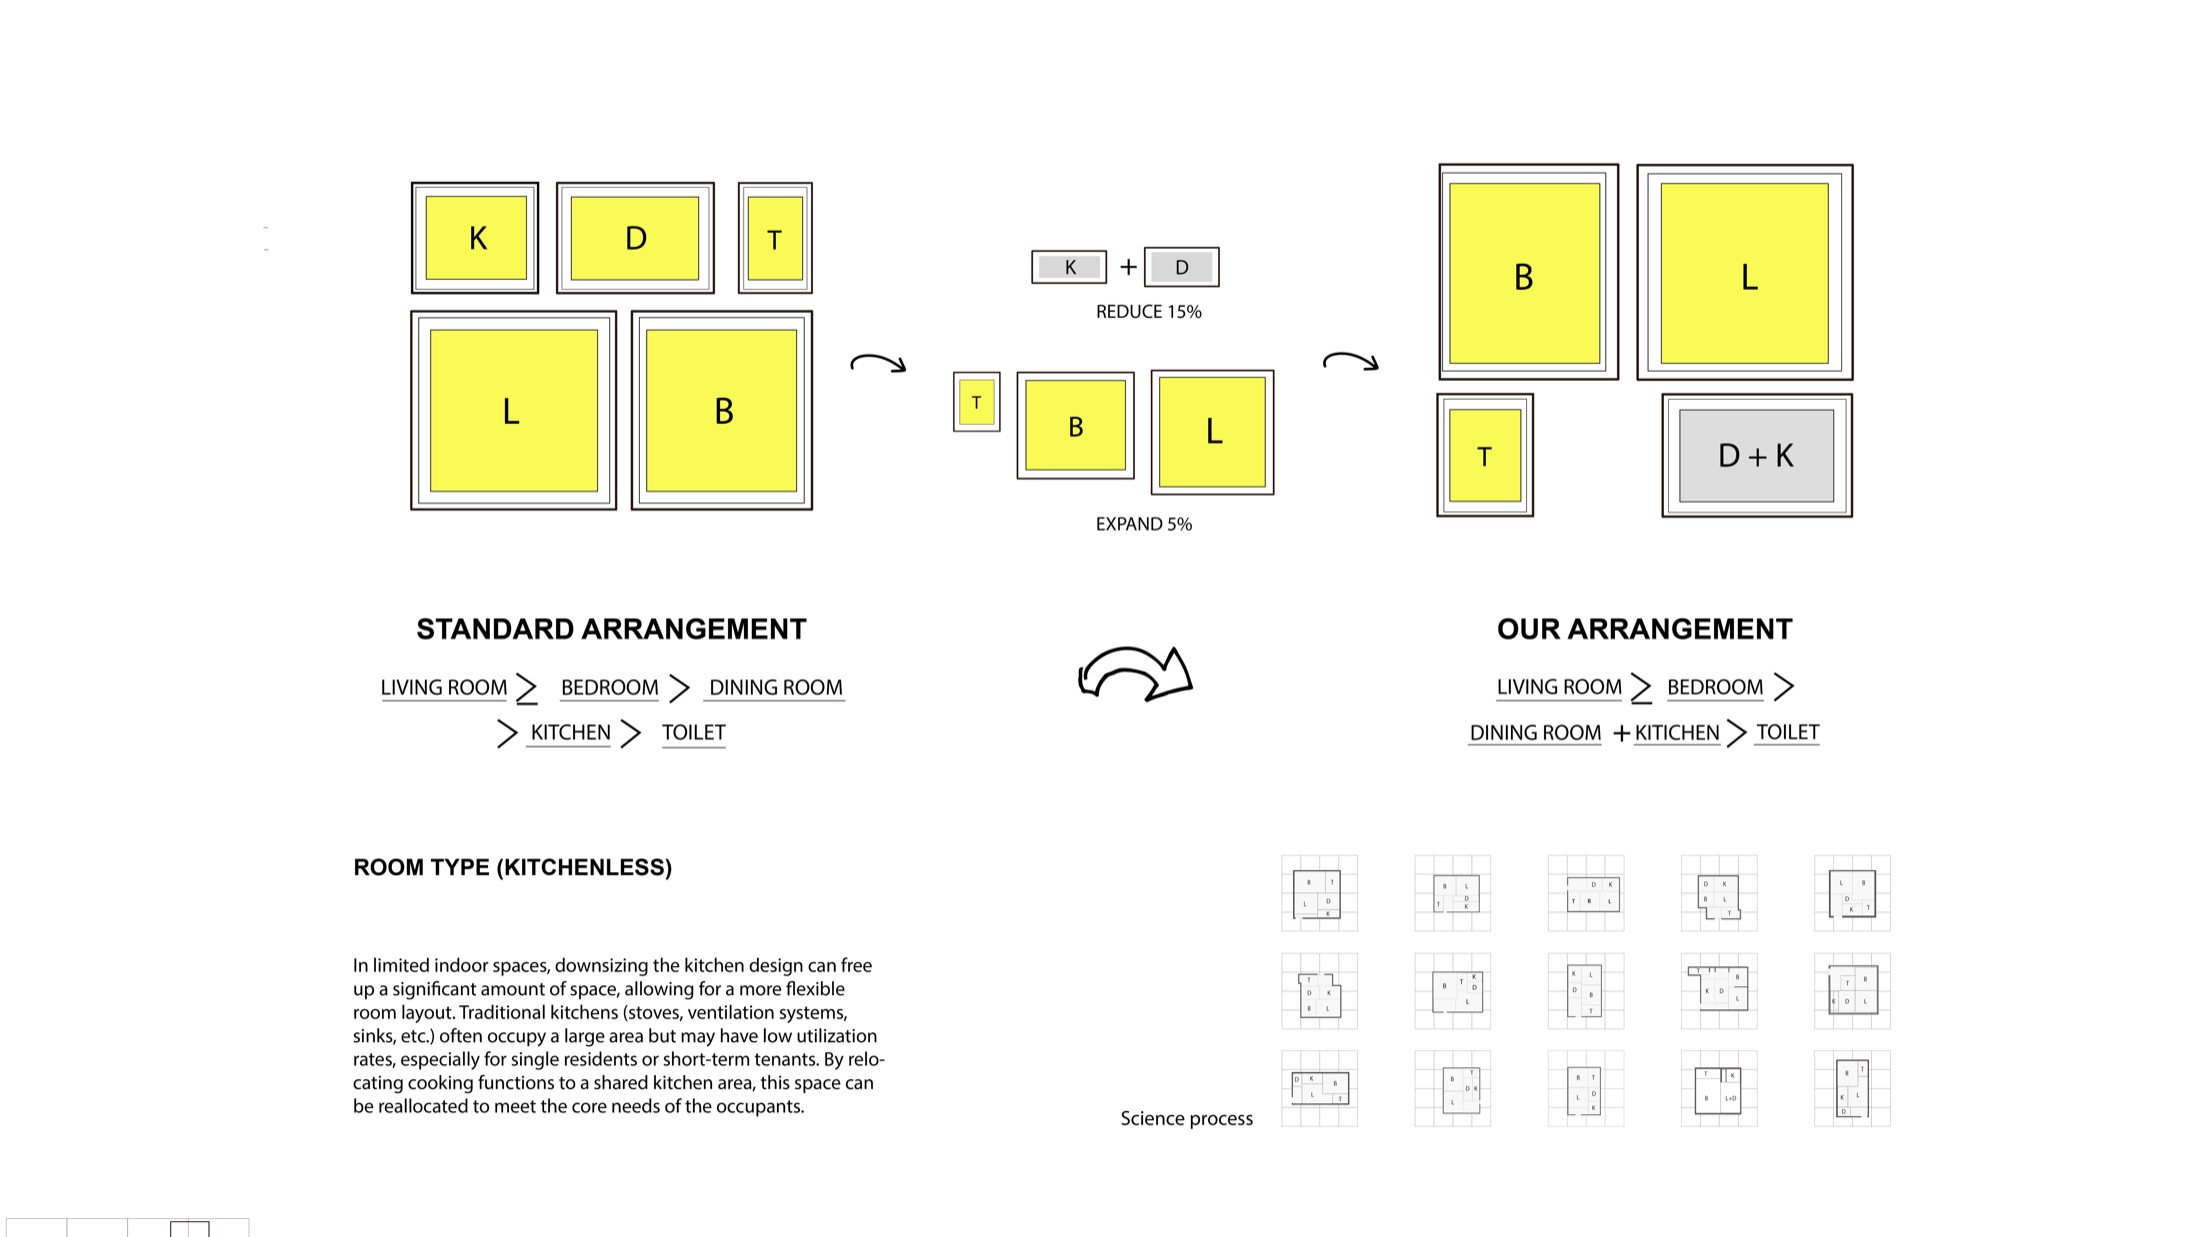
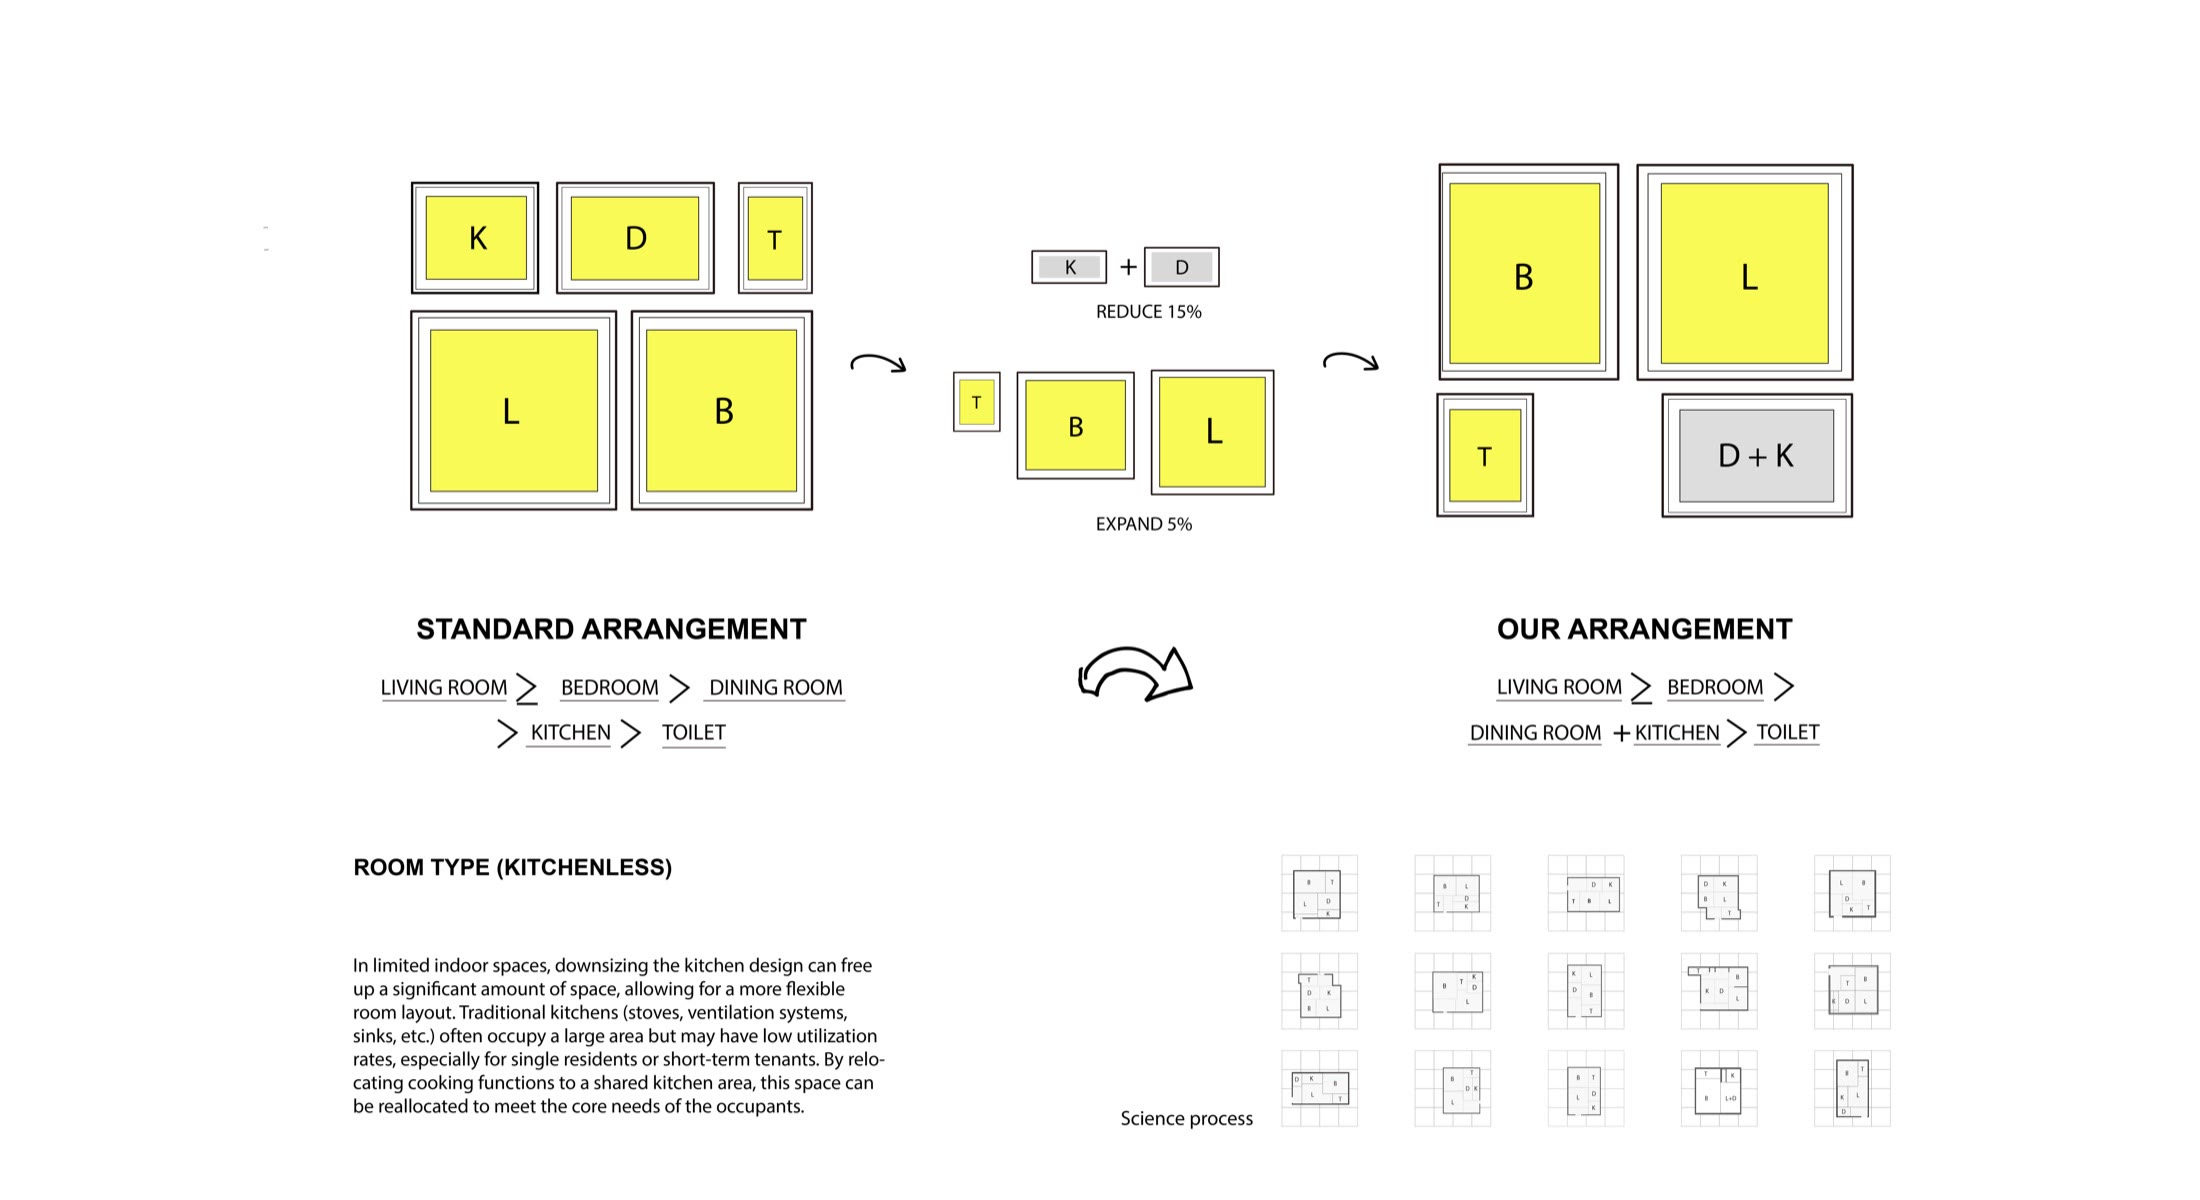
save

diff --git a/scripts/mineport.js b/scripts/mineport.js
@@ -122,6 +122,10 @@ document.addEventListener("DOMContentLoaded", function () {
             return "";
         }
 
+        if (detail.fullDescription) {
+            return detail.fullDescription;
+        }
+
         return detail.title + " is developed as a long-form " + detail.category.toLowerCase() + " proposal rooted in atmosphere, spatial sequence, and material restraint. Set in " + detail.location + ", the work begins with a close reading of movement, pause, and the emotional rhythm produced between enclosure and openness. Rather than treating form as a singular object, the project is organized as a series of linked moments, where threshold, proportion, light, and visual compression gradually shape the experience of the whole. The intention is to create a setting that feels measured and quiet, but still carries strong emotional depth through contrast, texture, and pacing. " +
             "Across the proposal, surfaces are edited carefully so that each junction, opening, and transition contributes to a more continuous architectural narrative. Light is not only used to illuminate the space, but also to structure attention, soften boundaries, and clarify the hierarchy between public and intimate zones. Material choices are imagined as part of the same composition, allowing weight, reflection, shadow, and tactile presence to work together instead of competing for emphasis. " +
             "The result is a project that values calm over spectacle and precision over excess. It aims to feel immersive without becoming heavy, and expressive without losing discipline. In this way, " + detail.title + " becomes less a static formal statement and more a carefully paced environment, where each movement reveals another layer of spatial character, visual stillness, and lived atmosphere over time.";
@@ -261,7 +265,7 @@ document.addEventListener("DOMContentLoaded", function () {
         setButtonText(projectDetailGalleryToggle, isGalleryMode ? "Detail" : "Gallery", ".project-detail-badge-text", "project-detail-badge-text");
 
         if (isGalleryMode) {
-            renderProjectGalleryMode();
+            scheduleProjectGalleryModeRender();
         }
     }
 
@@ -283,6 +287,20 @@ document.addEventListener("DOMContentLoaded", function () {
         if (projectDetailStageTrack) {
             projectDetailStageTrack.querySelectorAll(".project-detail-gallery-stage-image").forEach(applyProjectGalleryStageImageRatio);
         }
+    }
+
+    function scheduleProjectGalleryModeRender() {
+        renderProjectGalleryMode();
+
+        window.requestAnimationFrame(function () {
+            renderProjectGalleryMode();
+
+            window.requestAnimationFrame(function () {
+                renderProjectGalleryMode();
+            });
+        });
+
+        window.setTimeout(renderProjectGalleryMode, 360);
     }
 
     function blockProjectDetailImageNavigation(event) {

diff --git a/scripts/mineport-project-data.js b/scripts/mineport-project-data.js
@@ -1,4 +1,4 @@
-function createProjectDetail(title, location, typology, category, year, description, image, images, galleryImages) {
+function createProjectDetail(title, location, typology, category, year, description, image, images, galleryImages, fullDescription) {
     return {
         title: title,
         location: location,
@@ -7,7 +7,8 @@ function createProjectDetail(title, location, typology, category, year, descript
         year: year,
         description: description,
         images: images || Array(10).fill(image),
-        galleryImages: galleryImages || images || Array(10).fill(image)
+        galleryImages: galleryImages || images || Array(10).fill(image),
+        fullDescription: fullDescription || ""
     };
 }
 
@@ -18,9 +19,11 @@ window.MINEPORT_PROJECT_DETAIL_DATA = [
     createProjectDetail("Stone Horizon House", "Los Angeles, USA", "Residential", "Architecture", "2024 Spring", ["A residential concept framed by long horizons, low silhouettes, and a measured relationship between land and enclosure.", "The project explores how stillness can be expressed through geometry, light, and carefully edited material transitions."], "../assets/images/projects/project4/card/project4.jpg"),
     createProjectDetail("Stone Horizon House", "Los Angeles, USA", "Culture", "Architecture", "2023 Winter", ["An interior-forward reading of the project that focuses on tactile surfaces, tone, and a disciplined editing of detail.", "Furniture, openings, and circulation are treated as part of one continuous visual composition."], "../assets/images/projects/project5/card/project5.jpg"),
     createProjectDetail("Stone Horizon House", "Los Angeles, USA", "Education", "Architecture", "2025 Summer", ["This version extends the project into a more image-driven exploration of atmosphere and narrative framing.", "The result is less about object and more about mood, pacing, and emotional resonance."], "../assets/images/projects/project6/card/project6.jpg"),
-    createProjectDetail("Stone Horizon House", "Los Angeles, USA", "Residential", "Architecture", "2024 Winter", ["A study in structural calm and horizontal emphasis, using massing to build quiet tension against the landscape.", "Its design language moves between solidity and openness without becoming heavy."], "../assets/images/projects/project7/card/project7.jpg", null, Array.from({ length: 20 }, function (_, imageIndex) {
-        return "../assets/images/projects/project7/gallery/" + (imageIndex + 1) + ".jpg?v=2";
-    })),
+    createProjectDetail("Kitchenless", "Taoyuan,Taiwan", "Residential", "Architecture", "2024 Winter", ["This kitchenless social housing concept optimizes space and cost while encouraging community through shared kitchens.", "It responds to food delivery, meal services, and sustainability trends with a more affordable, resource-efficient model for urban living."], "../assets/images/projects/project7/card/project7.jpg", [1, 6, 7, 9, 10, 11, 12, 14, 18].map(function (imageNumber) {
+        return "../assets/images/projects/project7/detail/" + imageNumber + ".jpg?v=1";
+    }), Array.from({ length: 20 }, function (_, imageIndex) {
+        return "../assets/images/projects/project7/gallery/" + (imageIndex + 1) + ".jpg?v=3";
+    }), "By removing private kitchens from individual units, the proposal shifts cooking from an isolated domestic function into a shared social infrastructure. Communal kitchens become places for exchange, care, and everyday encounter, while compact units can remain flexible, affordable, and easier to maintain. The project also reflects changing urban habits, where food delivery, prepared meals, and shared services reduce the need for fully equipped private kitchens in every home. In this model, housing becomes more than a collection of rooms; it becomes a resource-conscious living system that supports lower costs, reduced duplication, stronger community ties, and a more sustainable way of sharing space in dense cities."),
     createProjectDetail("Stone Horizon House", "Los Angeles, USA", "Culture", "Architecture", "2025 Fall", ["A visual narrative built from fragments of landscape, form, and silhouette rather than a single fixed object.", "The imagery focuses on atmosphere, contrast, and the emotional pacing of each frame."], "../assets/images/projects/project8/card/project8.jpg"),
     createProjectDetail("Stone Horizon House", "Los Angeles, USA", "Culture", "Architecture", "2026 Summer", ["A design exercise in compositional order, highlighting how proportion and alignment can carry visual clarity.", "Small shifts in edge, rhythm, and material tone shape the overall reading of the space."], "../assets/images/projects/project9/card/project9.jpg"),
     createProjectDetail("Stone Horizon House", "Los Angeles, USA", "Residential", "Architecture", "2020-2024", ["An updated architectural proposal that refines the dialogue between envelope, light, and circulation.", "The project privileges spatial atmosphere over statement, allowing experience to unfold gradually."], "../assets/images/projects/project4/card/project4.jpg"),

diff --git a/styles/mineport-overlays.css b/styles/mineport-overlays.css
@@ -287,6 +287,7 @@
     overflow-y: auto;
     padding-right: 4px;
     align-content: start;
+    background: #ffffff;
     opacity: 0;
     transform: translateY(18px);
     transition: opacity 0.42s ease 0.2s, transform 0.5s cubic-bezier(0.16, 1, 0.3, 1) 0.2s;
@@ -322,13 +323,12 @@
     display: block;
     flex: 0 0 auto;
     width: 100%;
-    aspect-ratio: 4 / 3;
     padding: 0;
     margin: 0;
     border-radius: 8px;
     overflow: hidden;
-    background: #e2e0dc;
-    box-shadow: 0 10px 26px rgba(21, 19, 17, 0.08);
+    background: #ffffff;
+    box-shadow: none;
     opacity: 0;
     transform: translateY(10px);
     transition: opacity 0.38s ease, transform 0.44s cubic-bezier(0.16, 1, 0.3, 1);
@@ -562,10 +562,10 @@
 .project-detail-gallery-image {
     display: block;
     width: 100%;
-    height: 100%;
+    height: auto;
     min-height: 0;
-    object-fit: cover;
-    background: #ddd;
+    object-fit: contain;
+    background: #ffffff;
     vertical-align: top;
 }
 